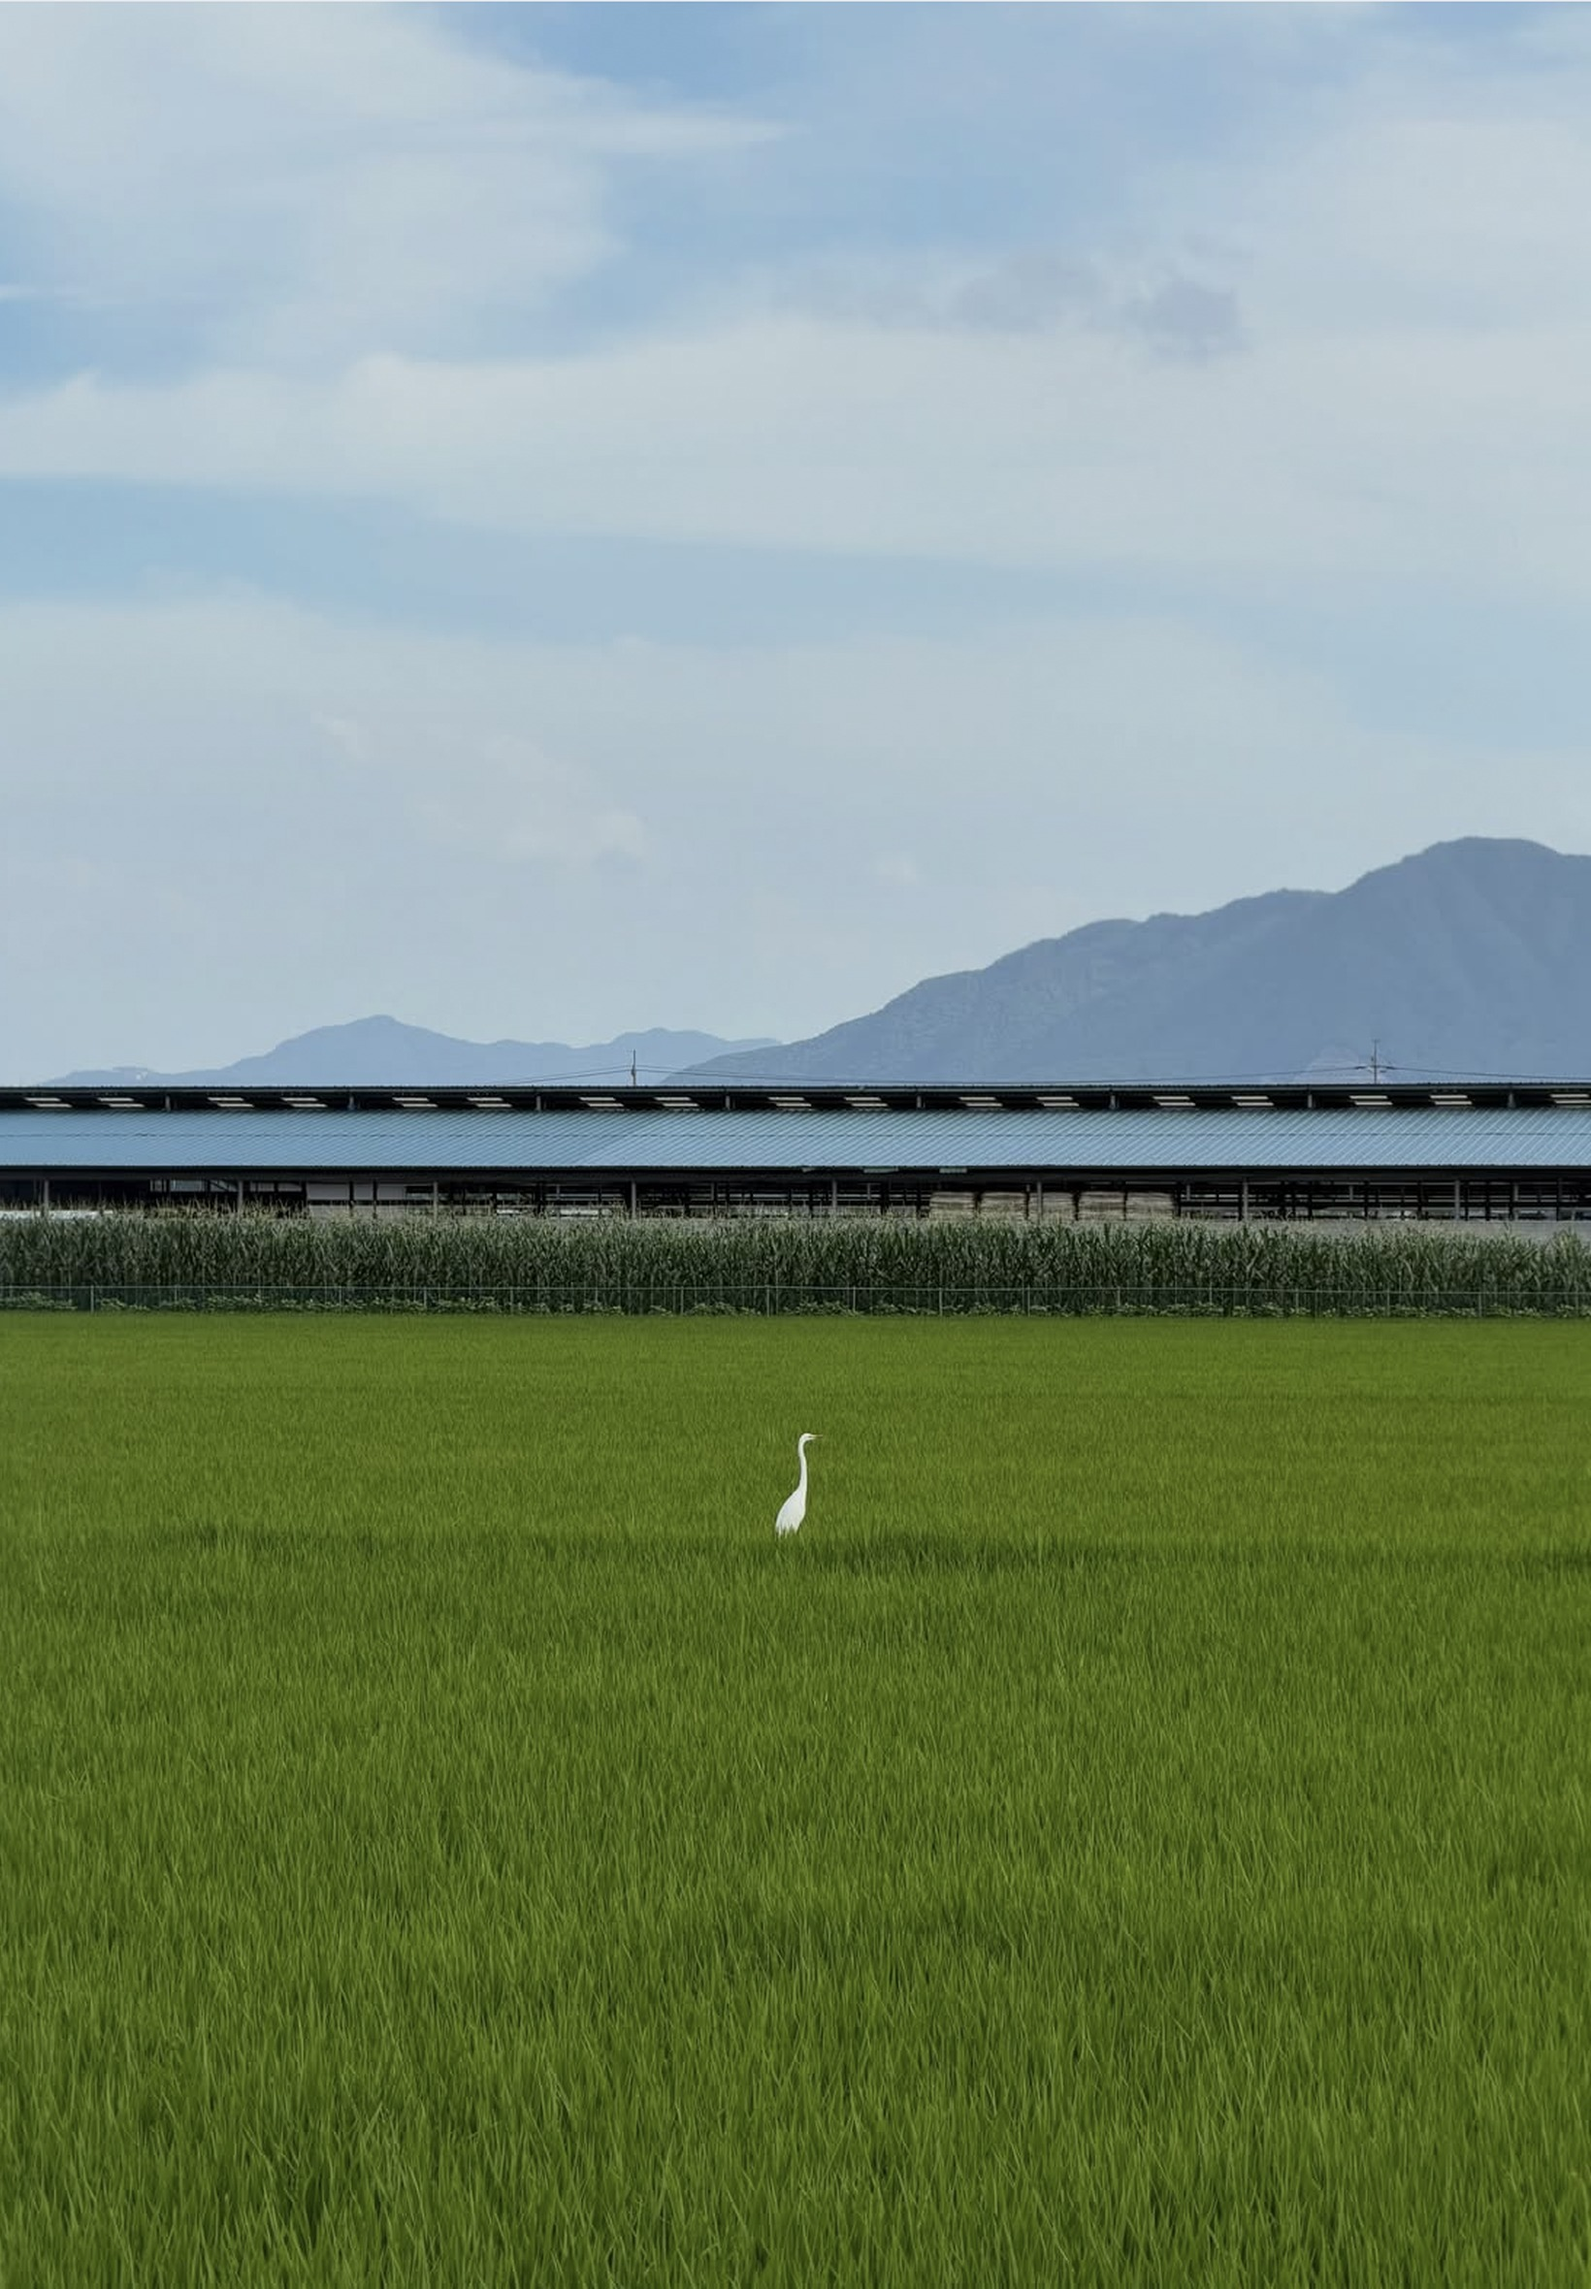
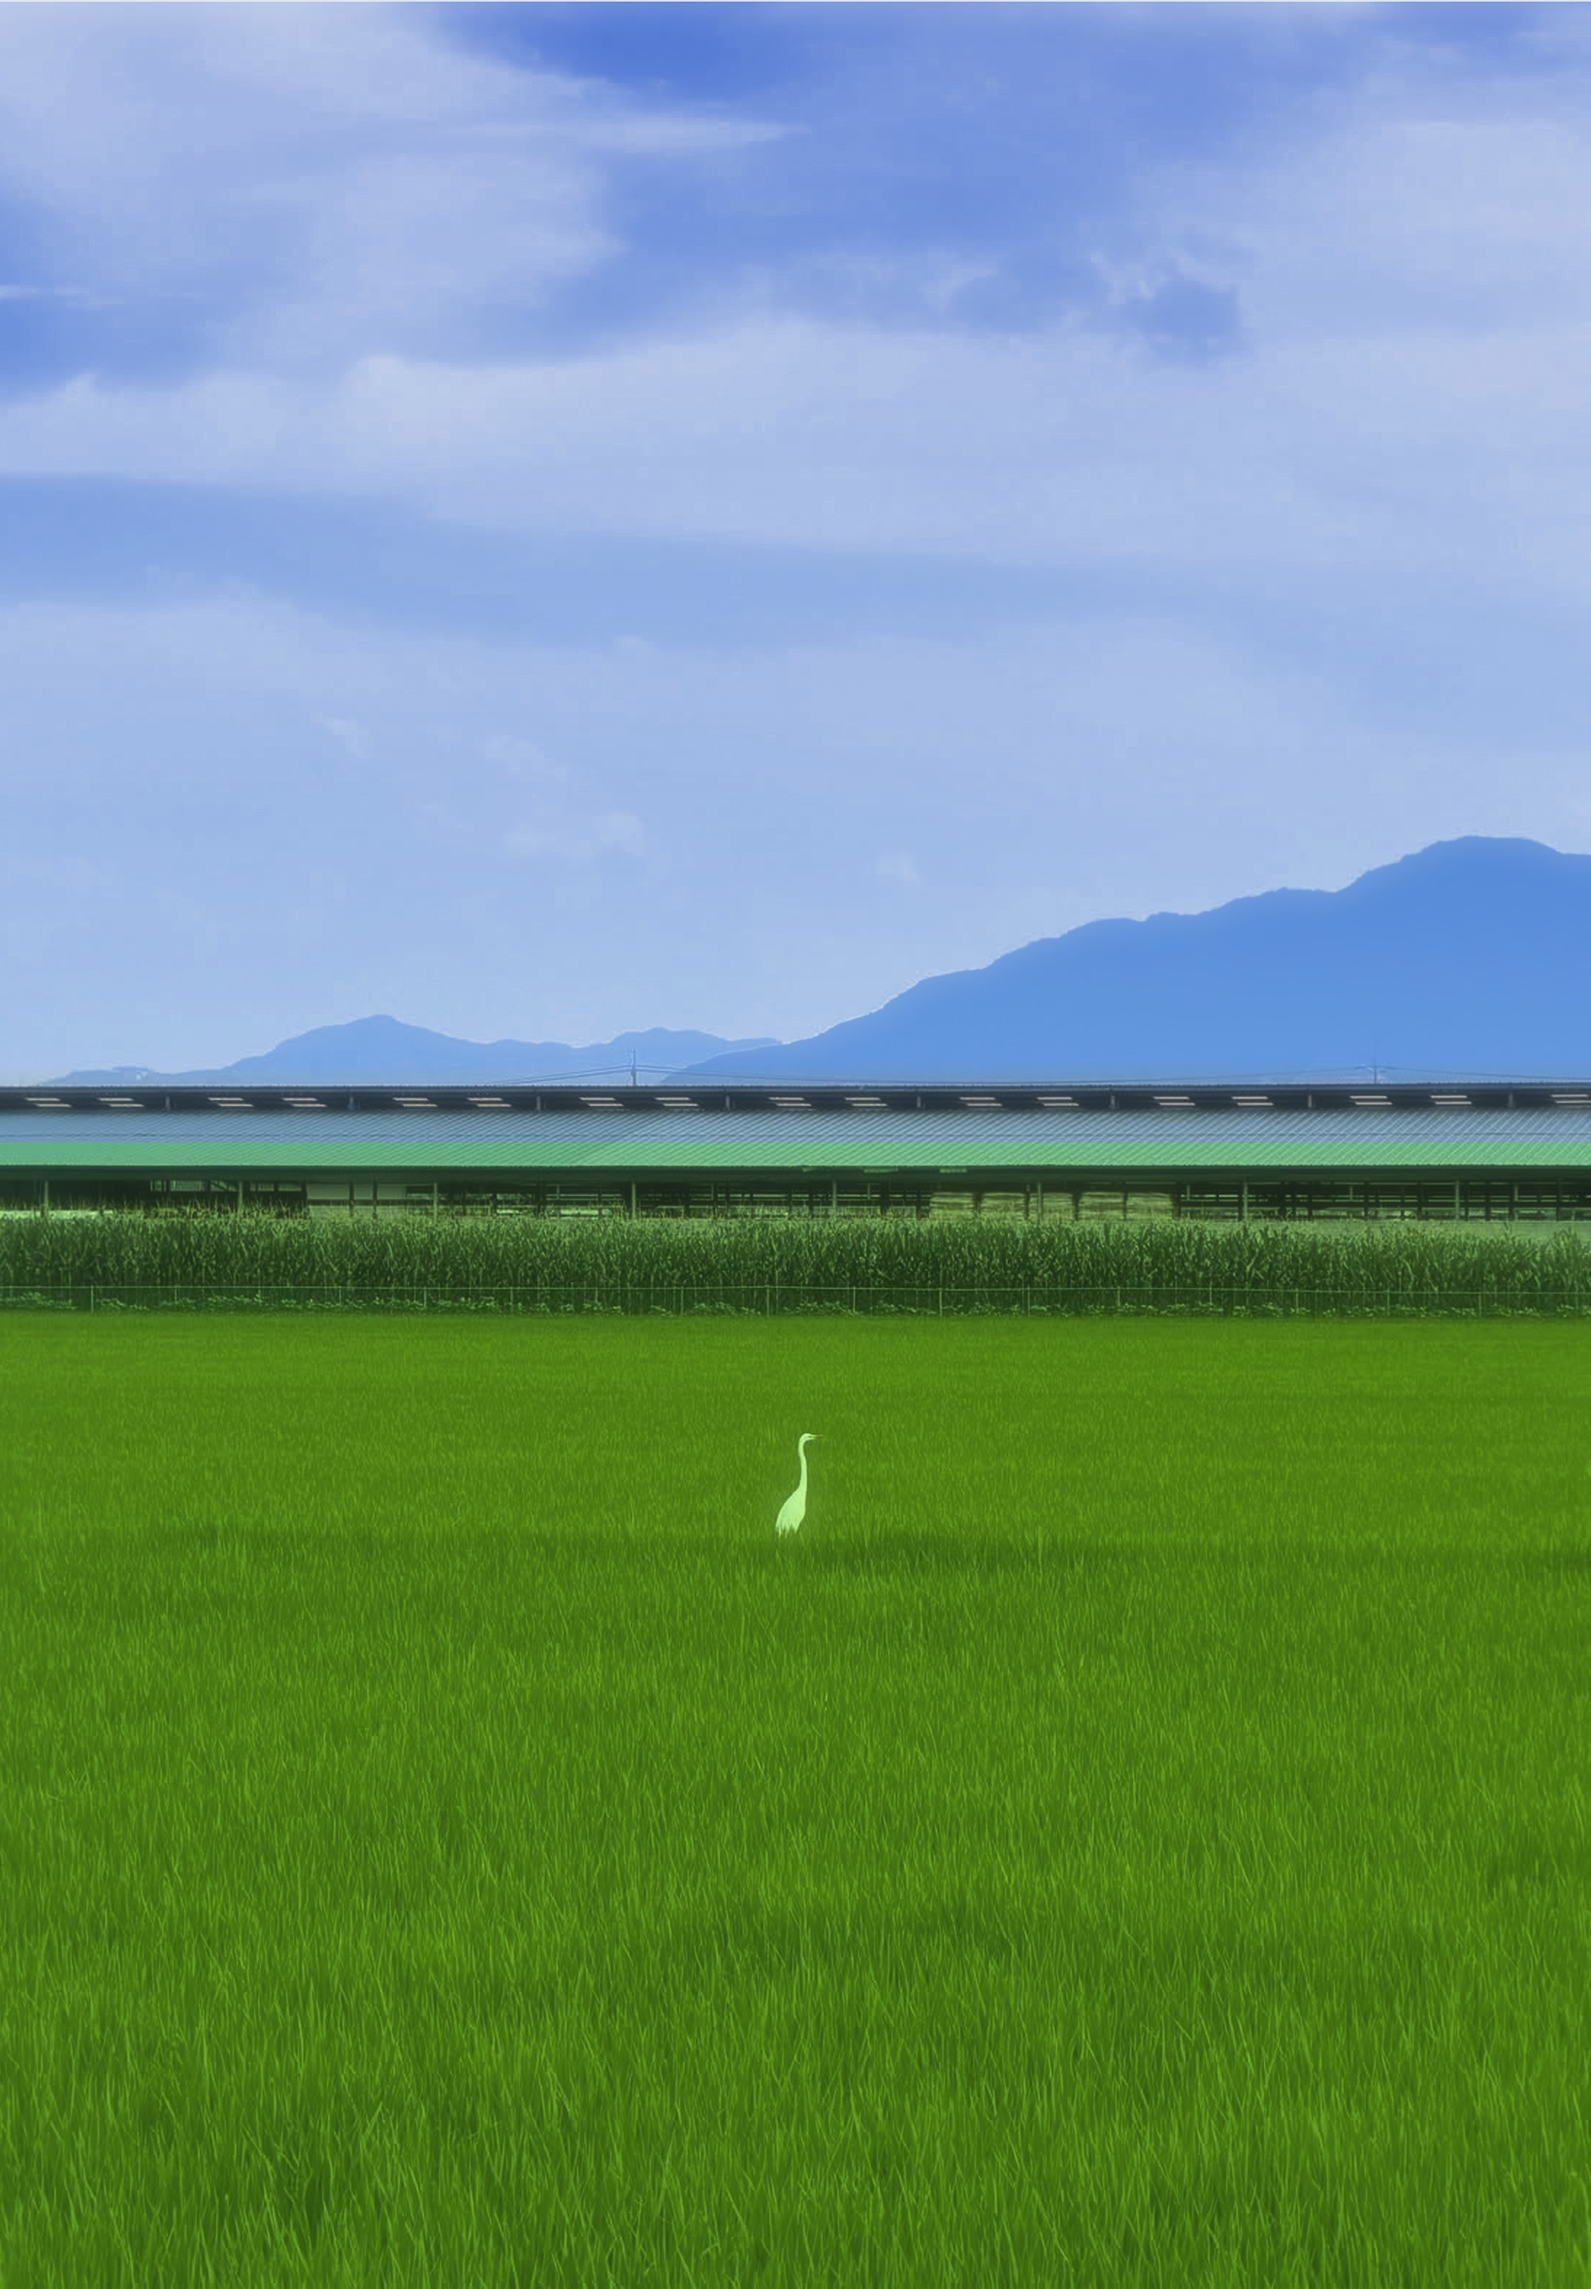
금붕어 세로: 실사 금붕어·비눗방울 + 레트로 색감 (레퍼런스 스타일)
Claude-Session: https://claude.ai/code/session_01LMf8UAwMNLbidmC1Q5Dsz8

diff --git a/index.html b/index.html
@@ -469,6 +469,7 @@ function compose(ctx, W, H) {
     drawMirroredCover(ctx, video, sw, sh, 0, 0, W, H);
   }
   if (cur.overlay) ctx.drawImage(cur.overlay, 0, 0, W, H);
+  if (cur.bubbleGrain) drawGrain(ctx, W, H, cur.bubbleGrain);
   if (cur.stickers && sw && sh) drawStickers(ctx, W, H, sw, sh);
 }
 
@@ -528,6 +529,33 @@ function drawCopies(ctx, W, H, sw, sh) {
     const [x, y, w, h] = p.box;
     drawPersonIn(ctx, { x: x * s, y: y * s, w: w * s, h: h * s }, p.rotate, stretch);
   }
+}
+
+function lensOnly(ctx, cx, cy, r) {
+  const d = Math.ceil(r * 2);
+  if (d < 8) return;
+  if (lensCanvas.width !== d || lensCanvas.height !== d) { lensCanvas.width = d; lensCanvas.height = d; }
+  lnctx.clearRect(0, 0, d, d);
+  lnctx.drawImage(ctx.canvas, cx - r, cy - r, d, d, 0, 0, d, d);
+  ctx.save();
+  ctx.beginPath(); ctx.arc(cx, cy, r, 0, Math.PI * 2); ctx.clip();
+  ctx.drawImage(lensCanvas, cx - r * 1.1, cy - r * 1.1, d * 1.1, d * 1.1);
+  ctx.restore();
+}
+// 필름 입자: 작은 노이즈 타일을 한 번 만들어 반복해서 덮음
+let grainPattern = null;
+function drawGrain(ctx, W, H, amt) {
+  if (!grainPattern) {
+    const t = document.createElement('canvas'); t.width = t.height = 160;
+    const g = t.getContext('2d'), im = g.createImageData(160, 160);
+    for (let i = 0; i < im.data.length; i += 4) { const v = Math.random() * 255; im.data[i] = im.data[i + 1] = im.data[i + 2] = v; im.data[i + 3] = 255; }
+    g.putImageData(im, 0, 0);
+    grainPattern = ctx.createPattern(t, 'repeat');
+  }
+  ctx.save();
+  ctx.globalAlpha = amt; ctx.globalCompositeOperation = 'overlay';
+  ctx.fillStyle = grainPattern; ctx.fillRect(0, 0, W, H);
+  ctx.restore();
 }
 
 // 진짜 비눗방울처럼: 속은 거의 투명 + 렌즈처럼 살짝 확대 + 무지갯빛 얇은 막 + 창문 모양 반사
@@ -595,12 +623,23 @@ function drawBubbles(ctx, W, H, sw, sh) {
       const part = ch * BUBBLE_TOP, k = (r * 1.75) / part;  // 머리~허리가 지름의 88%쯤
       ctx.save();
       ctx.beginPath(); ctx.arc(cx, cy, r, 0, Math.PI * 2); ctx.clip();
+      ctx.save();
       ctx.translate(cx, cy - r * 0.82);
       ctx.scale(-k, k);
+      if (cur.bubbleTone && 'filter' in ctx) ctx.filter = 'saturate(1.25) contrast(0.88) brightness(1.08)';  // 레트로 필름 색감
       ctx.drawImage(cropCanvas, 0, 0, cw, Math.min(ch, part * 1.4), -cw / 2, 0, cw, Math.min(ch, part * 1.4));
       ctx.restore();
+      if (cur.bubbleTone) {  // 푸른 기
+        ctx.globalCompositeOperation = 'soft-light';
+        ctx.fillStyle = 'rgba(70,130,235,.45)'; ctx.fillRect(cx - r, cy - r, r * 2, r * 2);
+        ctx.globalCompositeOperation = 'source-over';
+      }
+      ctx.restore();
     }
-    drawSoapBubble(ctx, cx, cy, r, b.person && has);
+    if (cur.bubbleImg) {  // 방울 그림 (사진) — 빈 방울은 뒤를 살짝 확대해 렌즈처럼
+      if (!(b.person && has)) lensOnly(ctx, cx, cy, r);
+      ctx.drawImage(cur.bubbleImg, cx - r, cy - r, r * 2, r * 2);
+    } else drawSoapBubble(ctx, cx, cy, r, b.person && has);
   }
 }
 
@@ -971,10 +1010,11 @@ async function prepareStatic(f) {
 
 async function prepareLive(f) {
   loadVision().catch(() => {});  // 이미지 받는 동안 같이 준비
-  const [bg, fr, slot, ...st] = await Promise.all([
+  const [bg, fr, slot, bubbleImg, ...st] = await Promise.all([
     f.background ? loadImg(f.background) : null,
     f.src ? loadImg(f.src) : null,
     f.slot ? loadImg(f.slot) : null,
+    f.bubbleImg ? loadImg(f.bubbleImg) : null,
     ...Object.values(f.stickers || {}).map(loadImg),
   ]);
   const names = Object.keys(f.stickers || {});
@@ -993,7 +1033,8 @@ async function prepareLive(f) {
   }
   return { W, H, live: true, bg, overlay: fr ? buildOverlay(fr) : null,
     stickers: stickerList.length > 0, stickerList,
-    slot, slotBox, slotRotate: f.slotRotate || 0, faceSpot: f.faceSpot || null, copies: Array.isArray(f.copies) && f.copies.length ? f.copies : null, copiesFit: f.copiesFit || 'contain', bubbles: Array.isArray(f.bubbles) && f.bubbles.length ? f.bubbles : null };
+    slot, slotBox, slotRotate: f.slotRotate || 0, faceSpot: f.faceSpot || null, copies: Array.isArray(f.copies) && f.copies.length ? f.copies : null, copiesFit: f.copiesFit || 'contain', bubbles: Array.isArray(f.bubbles) && f.bubbles.length ? f.bubbles : null,
+    bubbleImg, bubbleTone: !!f.bubbleTone, bubbleGrain: f.bubbleGrain || 0 };
 }
 
 // 이미지에서 불투명한 부분이 차지하는 범위 (W×H 좌표)

diff --git a/tools/process_frames.py b/tools/process_frames.py
@@ -334,7 +334,14 @@ def process_live(folder, old):
     # {"bubbles": [{"x": 중심x, "y": 중심y, "r": 반지름, "person": true}, ...]} (배경 좌표)
     bj = folder / 'bubbles.json'
     if bj.exists():
-        entry['bubbles'] = json.loads(bj.read_text(encoding='utf-8')).get('bubbles', [])
+        opt = json.loads(bj.read_text(encoding='utf-8'))
+        entry['bubbles'] = opt.get('bubbles', [])
+        for k in ('grain', 'tone'):  # grain: 필름 입자 세기(0~1), tone: 방울 속 사람 레트로 색감
+            if k in opt:
+                entry['bubble' + k.capitalize()] = opt[k]
+        bp = find(folder, 'bubble')  # bubble.png: 방울 그림 (없으면 코드로 그림)
+        if bp:
+            entry['bubbleImg'] = rel(bp)
 
     stickers = {}
     for k in STICKERS:

diff --git a/CLAUDE.md b/CLAUDE.md
@@ -114,7 +114,7 @@ CHANGELOG.md             버전 기록 + 되돌리는 방법
 - **여러 명 프레임 (v4.10)**: 폴더에 `people.json` `{"fit":"stretch","copies":[{"box":[x,y,w,h],"rotate":0|-90}]}`(fit: stretch = box에 늘려 채움, 없으면 비율 유지)가 있으면 오려낸 사람을 자리마다 그림(`frames.json`의 `copies`).
   코드: `cropPerson()`(사람 범위 잘라 마스크) → `drawPersonIn()`(돌려서 box에 contain, 거울) / `drawCopies()`. 비스듬한 획은 `{"center":[x,y],"len","thick","rotate"}`. 폴더의 `thumb.png` = 썸네일. 예: `frames/퇴근/`, `frames/퇴사/`, `frames/자퇴/`
 - **비눗방울 프레임 (v4.11)**: 폴더에 `bubbles.json` `{"bubbles":[{"x","y","r","person"}]}`가 있으면 방울을 그리고 person 방울에 사람 머리~허리(`BUBBLE_TOP`)를 넣음(`frames.json`의 `bubbles`).
-  코드: `drawBubbles()`(cropPerson 재사용). 금붕어는 `frame.png`(흰 바탕 → 투명 변환해서 올림). 예: `frames/금붕어/`, `frames/금붕어 세로/`
+  코드: `drawBubbles()`(cropPerson 재사용), `drawSoapBubble()`/`lensOnly()`, `drawGrain()`. `tone`·`grain`·폴더 `bubble.png` 옵션. 금붕어는 `frame.png`(흰 바탕 → 투명 변환해서 올림). 예: `frames/금붕어/`, `frames/금붕어 세로/`
 - 테스트: Chromium `--use-file-for-fake-video-capture=파일.y4m`로 얼굴이 나오는 영상을 가짜 카메라로 쓸 수 있음
 
 ### 업로드 폴더 (사용자가 GitHub 웹에서 올리는 곳) — 저장소 첫 화면 `README.md`에 표로 정리

diff --git a/CHANGELOG.md b/CHANGELOG.md
@@ -19,6 +19,8 @@ git commit -m "v3.0으로 되돌림" && git push origin HEAD:main
 - LIVE 프레임 폴더에 `bubbles.json`을 넣으면 비눗방울을 그리고, `person: true` 방울 안에는 오려낸 사람(머리~허리)을 넣음
   - `{"bubbles": [{"x": 중심x, "y": 중심y, "r": 반지름, "person": true}, ...]}` (배경 좌표). 방울 = 가장자리 뿌옇게 + 흰 테두리 + 반짝임
   - 방울 모양(`drawSoapBubble()`): 속은 투명 + 뒤 그림을 살짝 확대(렌즈) + 무지갯빛 얇은 막 + 왼쪽 위 창문 모양 반사·오른쪽 아래 작은 반사
+- `bubbles.json`에 `"tone": true`(방울 속 사람 레트로 색감: 채도↑·대비↓·푸른 기), `"grain": 0.12`(전체 필름 입자), 폴더의 `bubble.png`(방울 사진, 없으면 코드로 그림)
+- `금붕어 세로`를 레퍼런스처럼 다시 만듦: 실사 금붕어 18마리(3가지 포즈를 뒤집고 돌려 배치) + 실사 비눗방울 + 레트로 보정한 논 사진(진한 파란 하늘, 초록 들판, 빛 번짐)
 - `금붕어`(가로)·`금붕어 세로`: 철원 논 사진(나라가 직접 찍음) 배경 + 가운데 큰 방울에 사람 + 작은 방울 여러 개 + 망점 금붕어(`frame.png`, 흰 바탕을 투명으로)
 
 ## v4.10 — 여러 명 프레임: 같은 사람을 여러 자리에 세우거나 눕혀서 그리기 (첫 프레임: `퇴근`)
